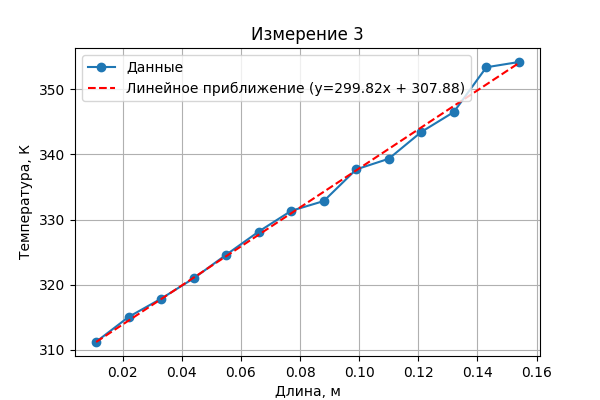
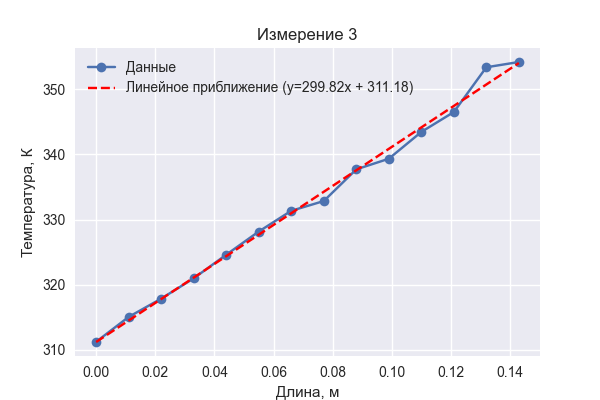
2

diff --git a/2/graph_all.py b/2/graph_all.py
@@ -7,8 +7,12 @@ for file_number in range(1, 4):
     # Set up path
     csv_file_path = f"2/csv/{file_number}.csv"
     df = pd.read_csv(csv_file_path, sep="\t", header=None)
+    plt.style.use("seaborn-v0_8")
     plt.figure(figsize=(6, 4)) 
-    for i in range (1, 15):
-        plt.plot(df[1: i], df[0])
+    x = df[0]  # Use the 0th column as x
+    for col in df.columns[1:]:
+        y = df[col] + 273.15  # Use the current column as y
+        plt.plot(x, y, label=f"{col}")
+    plt.legend(facecolor='white', framealpha=0.6, frameon=1)
     plt.show()
     plt.close()   
